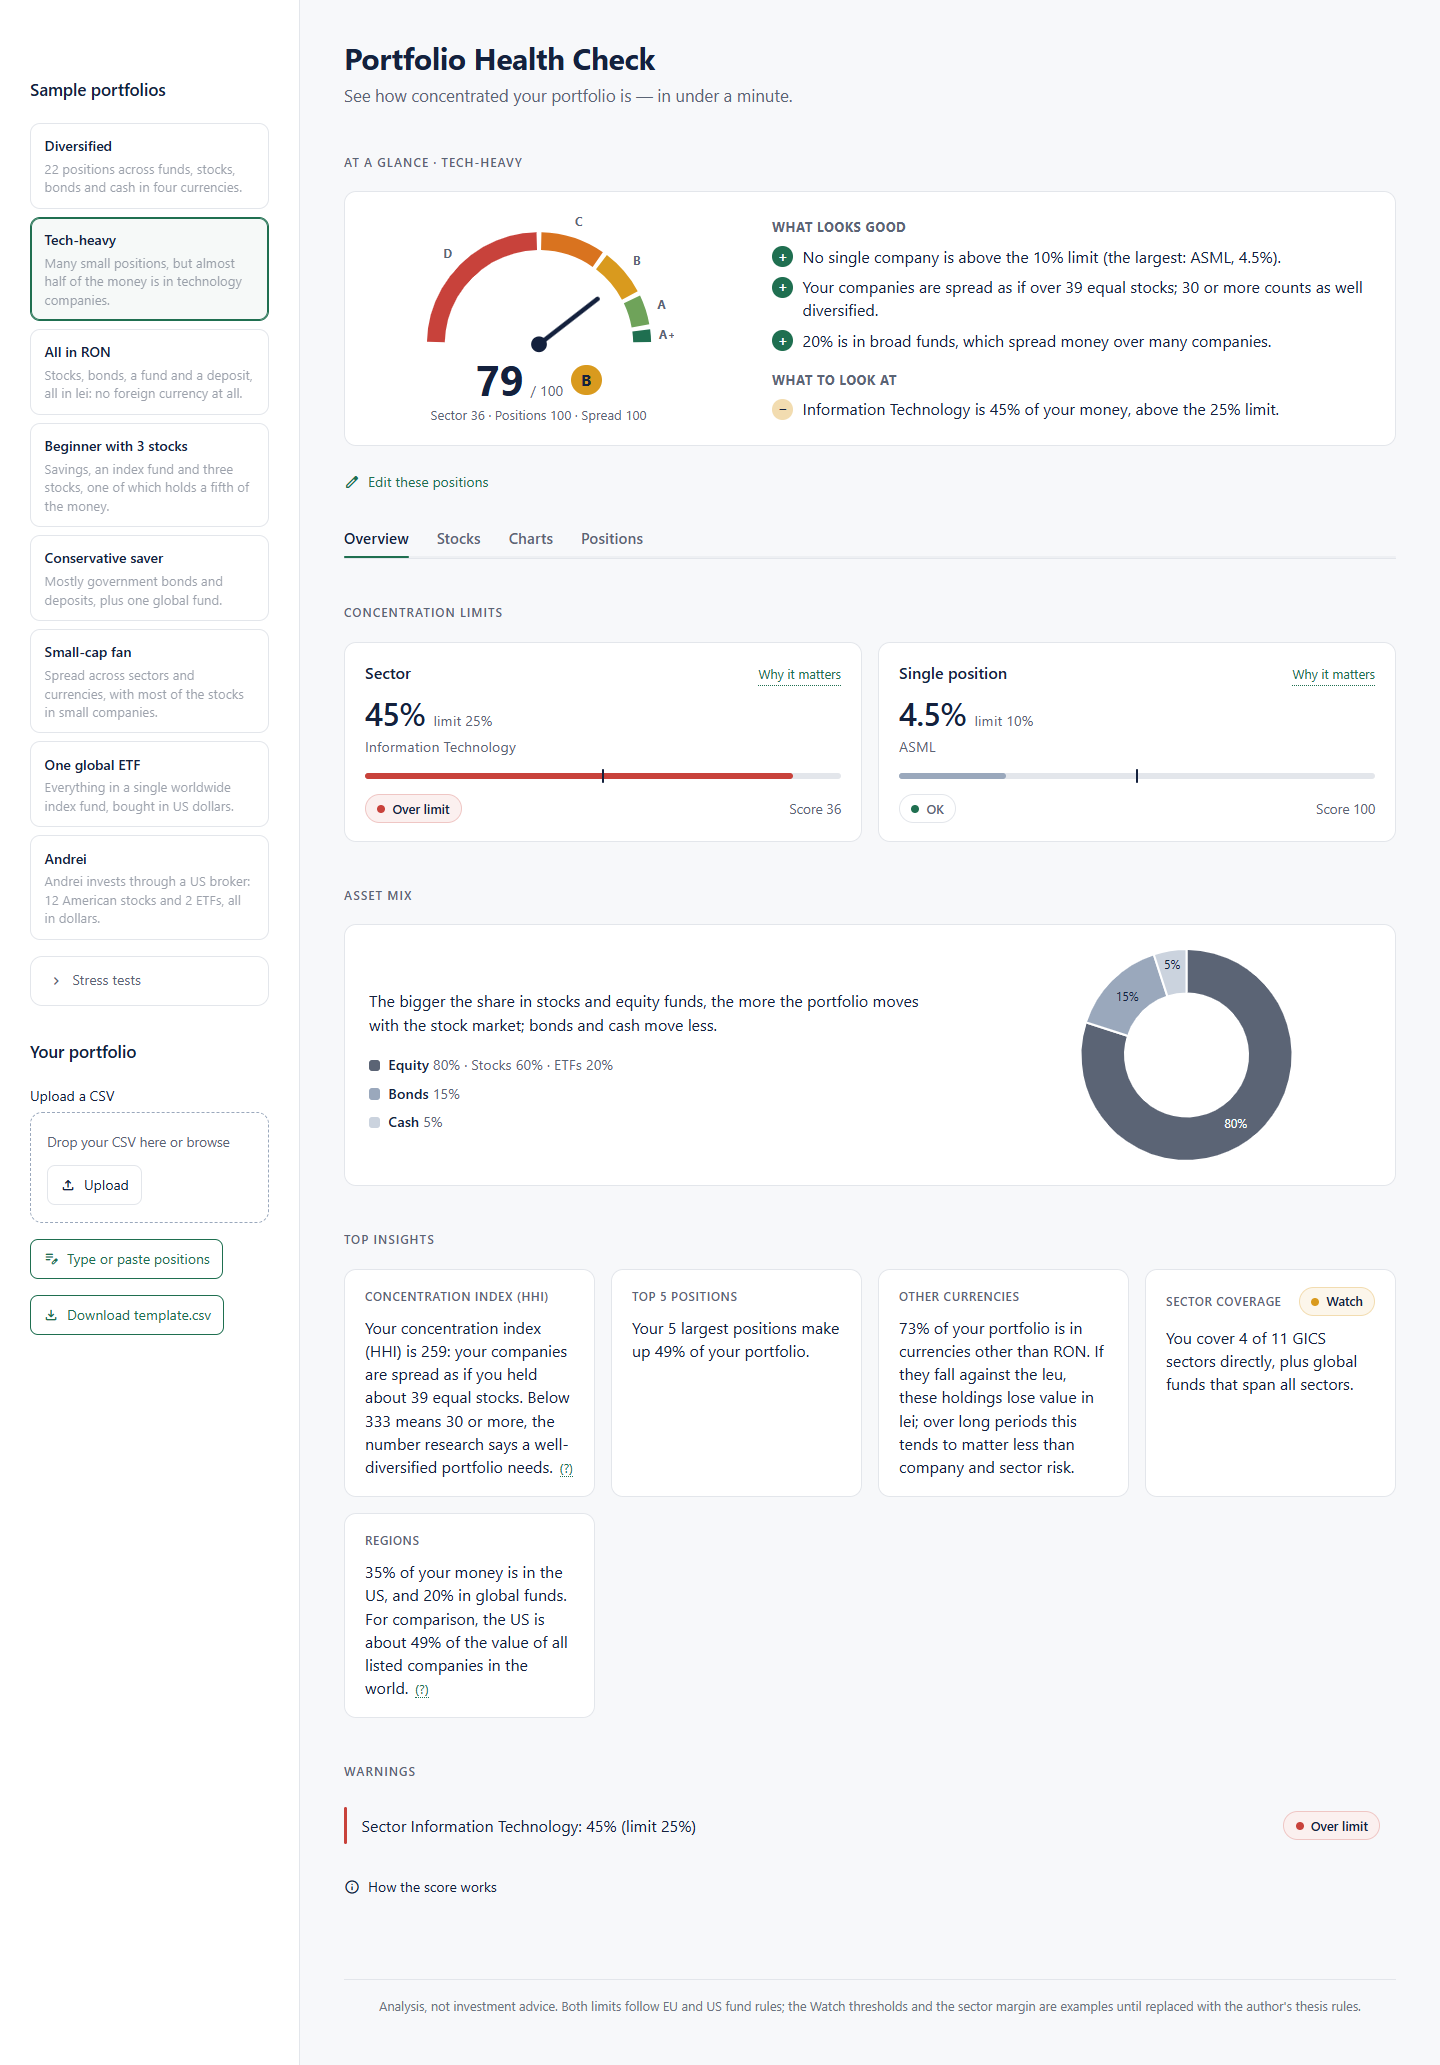
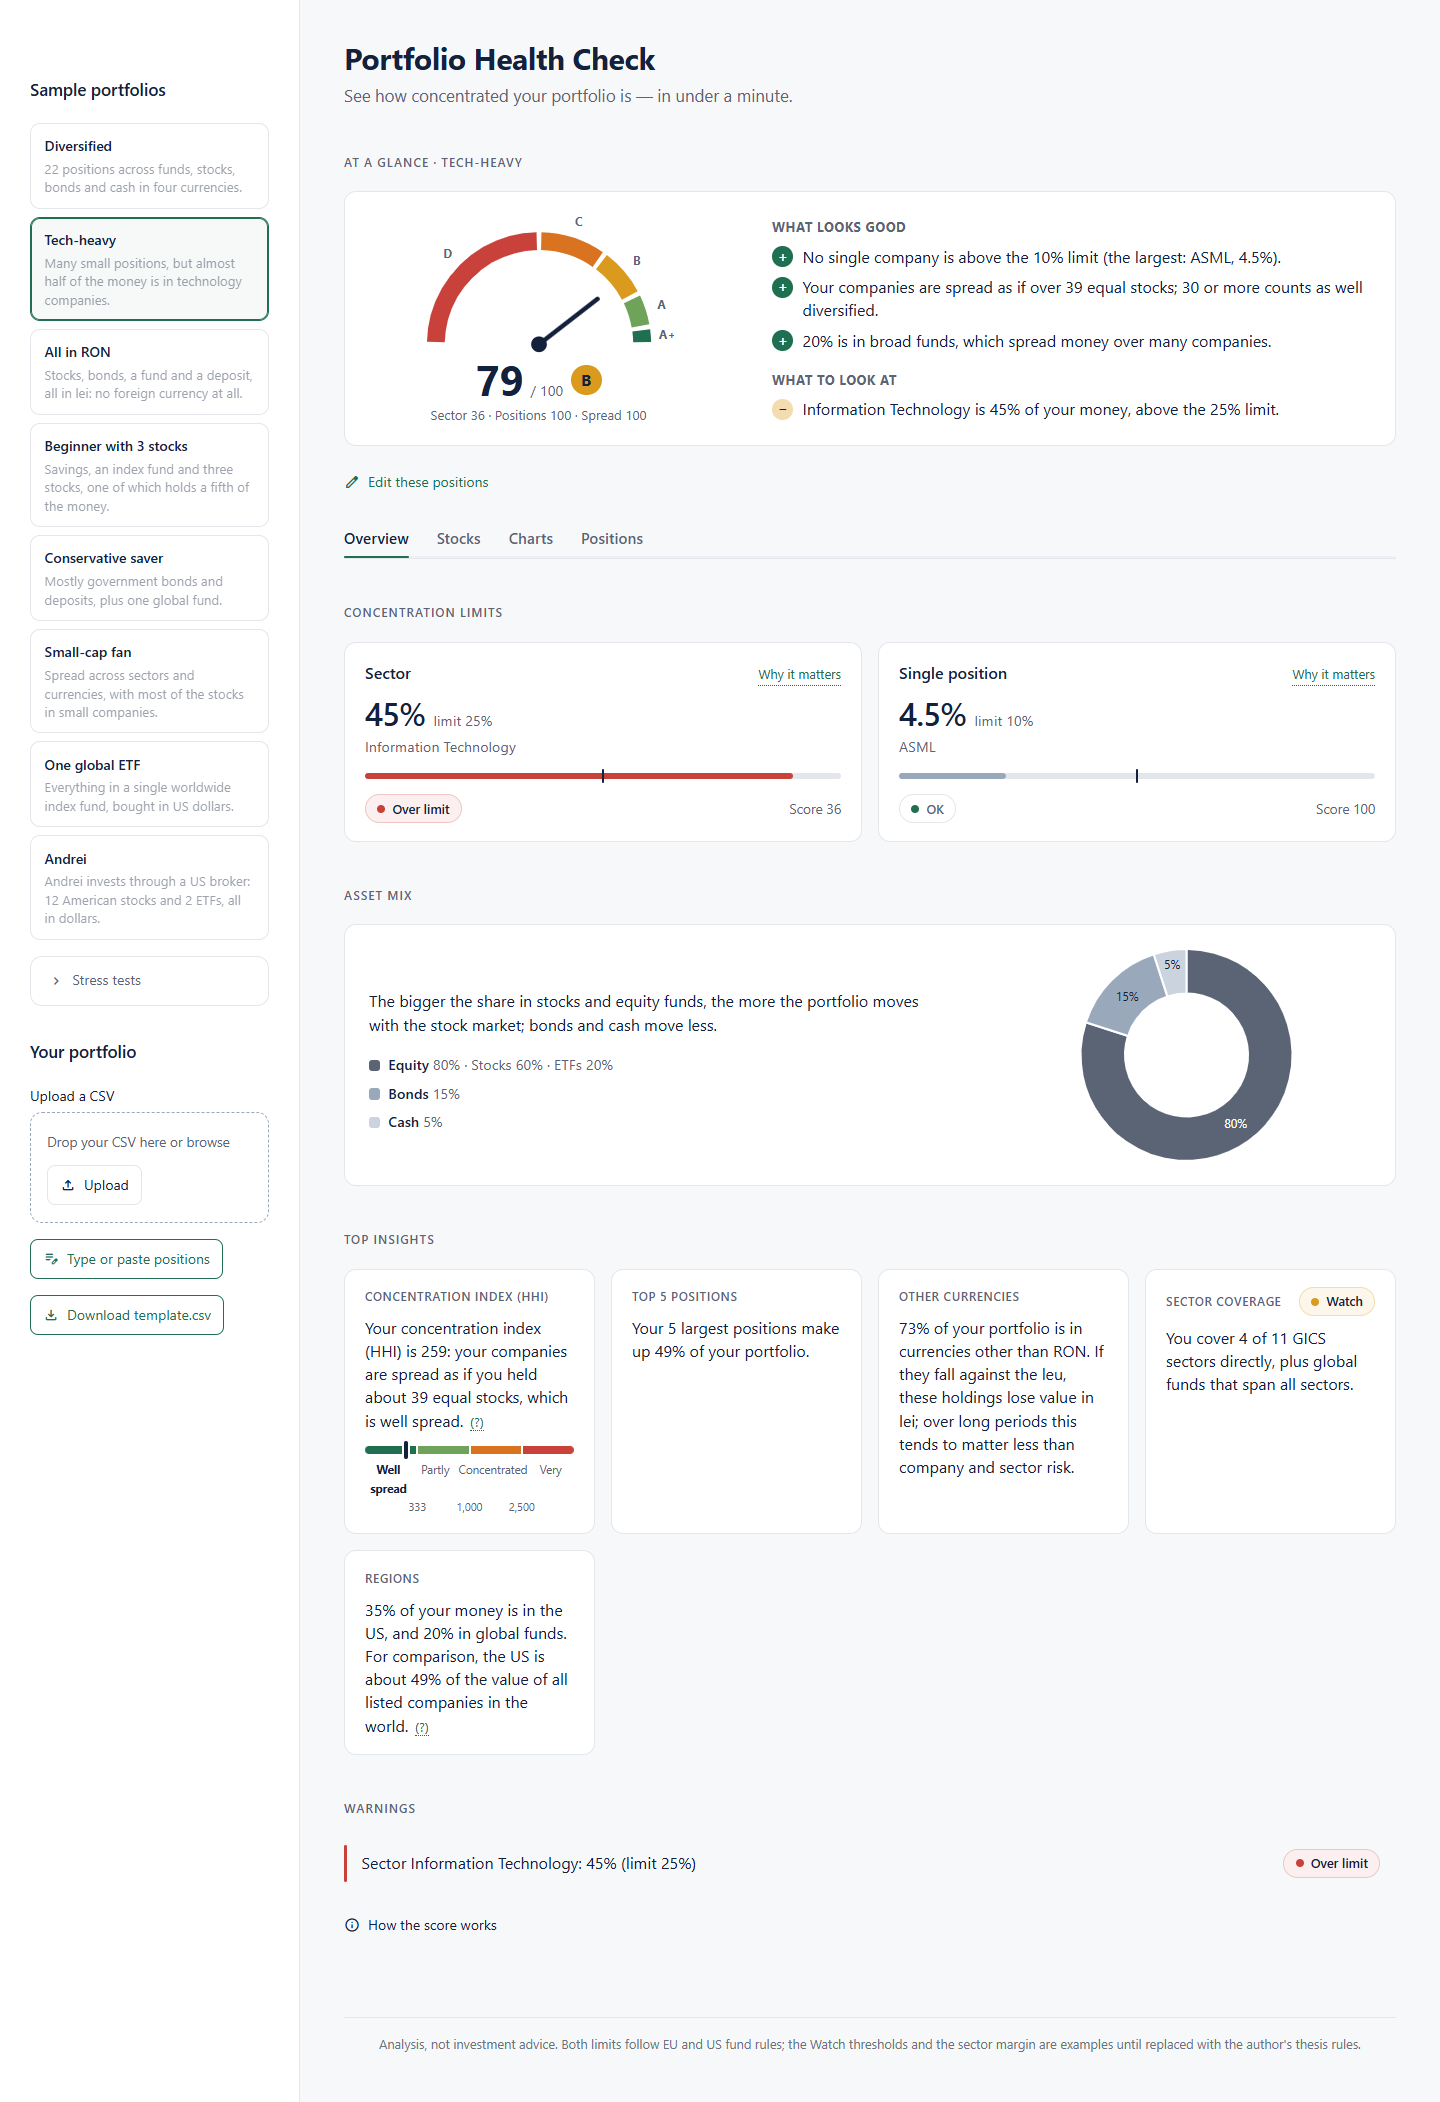
Ready for release: daily log for every day, Sprint Review and Retro, Jira import, v0.1 dated
- Daily log: Days 4 to 9, in plain words (no daily was held on Days 4-6
  and 8; written on 4 Nov).
- Sprint 1 Review and Retrospective; release preparation items REL-01, REL-02.
- docs/jira-import-4-nov.csv for the items not yet in Jira.
- CHANGELOG: v0.1 - MVP released 4 Nov 2026. Screenshots refreshed.

diff --git a/docs/daily-log.md b/docs/daily-log.md
@@ -67,15 +67,72 @@ Five minutes at the end of each working day.
   - S1-18 to S1-24 pulled into Sprint 1 (+15 points). Whatever is not Done by 2 Nov goes back to the Product Backlog.
 - _Daily Scrum: 13 min 30 s._
 
+## Day 4 – 30 Oct
+
+(No daily that day. Written on 4 Nov.)
+
+- **Done:** Nothing on the project. On 29 Oct, after the Day 3 daily, the values in the charts moved inside the bars, the tooltips got nicer, and the 5% and 10% limits got their sources.
+- **Next:** Decide the open points: sector limits, the region question, insight colours.
+- **Impediments:** None
+
+## Day 5 – 31 Oct
+
+(No daily that day. Written on 4 Nov.)
+
+- **Done:** Nothing on the project.
+
+## Day 6 – 1 Nov
+
+(No daily that day. Written on 4 Nov.)
+
+- **Done:**
+  - The sector limit is now 25%, the level the US regulator uses for concentration. Up to 30% it shows as "Just over".
+  - The US share is compared with the whole world, with the source behind a (?).
+  - A "Before you start" window: the app is just math, not advice, how the score works and how my data is kept.
+  - Corporate bonds and gold can be entered. Ten stress-test portfolios to check the limits.
+  - Release check: I removed the index data I'm not allowed to use, fixed the package versions and added the MIT licence.
+- **Next:** Check the screen and the score before the release.
+- **Impediments:** None
+- **My feedback:**
+  - I don't want anything in the project that could get me in legal trouble.
+  - Tips on how to raise the score are too close to advice. Explaining how the score works is enough.
+  - An S&P 500 or a world fund adds diversification. It shouldn't count against you.
+  - Feedback from users should come through an anonymous form, so I don't deal with personal data.
+- **Product Backlog changes:** New S1-28: feedback form (waits for the link). S1-26, S1-27, S1-29, S1-30 and S1-31 pulled in and done the same day.
+
 ## Day 7 – 2 Nov (last day of the Sprint)
 
-- **Done since Day 3:**
-  - 29 Oct: values inside the chart bars and card-like tooltips (S1-25). The single-position thresholds got their sources (D2).
-  - 30–31 Oct: no Sprint work.
-  - 1 Nov: the sector limit became 25%, with a safety margin (S1-13, D3). The US share is compared with the world (S1-22, D4). Insights are marked Good, Watch or Info (S1-20, D5). A "Before you start" window was added (S1-26). Index funds can be looked inside (S1-27, D6). Corporate bonds and precious metals are supported (S1-29, D7). Ten stress-test portfolios were added (S1-30). The release check removed everything its source doesn't allow (S1-31, D8).
-  - 2 Nov: the page no longer loads anything from Google (fonts, tab icon). The release check is written up in [release-check.md](release-check.md).
-- **Next:** Sprint Review and Retrospective, then the v0.1 release. I reread the code with my notes (S1-14).
-- **Impediments:** None.
-- **My feedback:** a portfolio made only of stocks should be flagged when it holds too few of them, and say why. Five stocks are already caught by the single-position limit, but 20 to 29 equal stocks score 100.
-- **Product Backlog changes:** New S1-32: a note when a portfolio is mostly individual stocks spread as fewer than 30 equal ones (Statman, 1987), for Sprint 2.
-- **Later the same day:** S1-33 gave the score a new formula, from three parts with the HHI ([D9](decisions.md)), shown on an animated gauge with tiers D to A+. Its spread part covers S1-32, which was removed.
+- **Done:**
+  - The page no longer loads anything from Google.
+  - New score from three parts: sector, positions and spread (HHI). The more you go over a limit, the more it costs.
+  - The score is shown on a gauge from D to A+. Only the needle moves, the rest made the page lag.
+  - Simpler screen: "What looks good" and "What to look at" next to the score. I removed what had no source. The region note stays.
+  - The HHI has a small scale, so anyone can see what the number means.
+- **Next:** Sprint Review and Retro, then the release. Reread the code with my notes (S1-14).
+- **Impediments:** None
+- **My feedback:**
+  - A portfolio of only stocks should be flagged when it has too few of them, and say why. 20 equal stocks shouldn't get 100.
+  - The score was calculated too simply. Going far over a limit should cost a lot more than going a bit over.
+  - The HHI is important, but people need to understand it.
+  - I want to share the app with my colleagues as a link.
+- **Product Backlog changes:** S1-32 (too few stocks) is covered by the new score and removed. S1-33 and S1-34 done. S1-14 is not done, so it goes back to the Product Backlog.
+
+## Day 8 – 3 Nov
+
+(No daily that day. Written on 4 Nov.)
+
+- **Done:** Nothing on the project.
+
+## Day 9 – 4 Nov (getting ready for the release)
+
+- **Done:**
+  - All 10 ETFs from the Bucharest Stock Exchange and the biggest European ETFs are in the app's list, every ticker checked.
+  - A BET fund now counts as about 20 companies, not as a fully spread fund. It works when you type only the ticker too.
+  - Last legal and stability check: nothing secret goes to GitHub, no outside requests, no errors on 500 random portfolios.
+  - Gold now counts as one position, with sources.
+- **Next:** Sprint Review and Retro with the presentation. Then push, publish on Streamlit and send the link to colleagues.
+- **Impediments:** The release is two days late, because of the extra checks and the ETF list.
+- **My feedback:**
+  - People who invest in BET funds or like ETFs need a good list of ETFs, but everything has to be legal. The biggest ones are enough for the MVP.
+  - I don't see gold as a stock, but with a source it's fine to count it as one position.
+- **Product Backlog changes:** The two Bucharest sector ETFs (energy, and energy and finance) wait for a decision.

diff --git a/docs/sprint-1.md b/docs/sprint-1.md
@@ -216,15 +216,24 @@ As the person testing the app, I want portfolios that sit exactly on each thresh
 As a user, I want to send feedback without giving my name or email, so that I can say what is unclear.
 - Given any screen, when I click "Give feedback", then an anonymous form opens in a new tab.
 
+## Release preparation (after Sprint 1, 4 Nov)
+
+Done before the v0.1 release, outside the Sprint.
+
+| ID | Jira | Type | Epic | Title | Points | Status | Done on |
+|---|---|---|---|---|---|---|---|
+| REL-01 | – | Story | E2 | Recognise the Bucharest ETFs and the largest UCITS ETFs; count BET funds as 20 companies | 3 | Done | 4 Nov |
+| REL-02 | – | Story | E4 | Count a precious metal as one position, with sources | 1 | Done | 4 Nov |
+
 ## Sprint Review (2 Nov)
 
-- Sprint Goal met? Yes / No
-- Increment delivered:
-- Not Done (back to the Product Backlog):
-- Demo notes:
+- **Sprint Goal met?** Yes. A user loads a portfolio and, in under a minute, sees the score, what looks good, what to look at and the key insights.
+- **Increment delivered:** v0.1 – MVP: samples, CSV upload and editor with automatic details, a score from three documented parts on a gauge from D to A+, charts, tables, the "Before you start" window, ten stress tests. 260+ automated tests.
+- **Not Done (back to the Product Backlog):** S1-14 (reread the code with my notes), S1-17 (search with suggestions), S1-28 (feedback form, waits for the link).
+- **Demo notes:** Andrei (A+ but things to look at), Tech-heavy (sector over the limit), Bucharest only (one region, few companies), the stress tests, typing a few tickers in the editor.
 
 ## Sprint Retrospective (Start / Stop / Continue)
 
-- **Start:**
-- **Stop:**
-- **Continue:**
+- **Start:** Hold the daily every day, even a short one. Check the legal side of every data source before using it, not at the end.
+- **Stop:** Pulling so much new work into the last two days. The Sprint went from 42 to 83 points.
+- **Continue:** Writing down every decision with its source. Testing on my real portfolio and on stress tests. Small commits with tests.

diff --git a/CHANGELOG.md b/CHANGELOG.md
@@ -1,6 +1,6 @@
 # Changelog
 
-## v0.1 – MVP (in progress)
+## v0.1 – MVP (released 4 Nov 2026)
 
 ### 4 Nov 2026
 - The built-in list knows the ETFs listed in Bucharest (BET, BET-TR, BET-TRN, BET-XT, Croatian and Slovenian index funds, a Romanian government bond fund) and the largest UCITS ETFs: global, US, European, emerging markets, bonds and a money-market fund. The name of TVBETETF is corrected.
